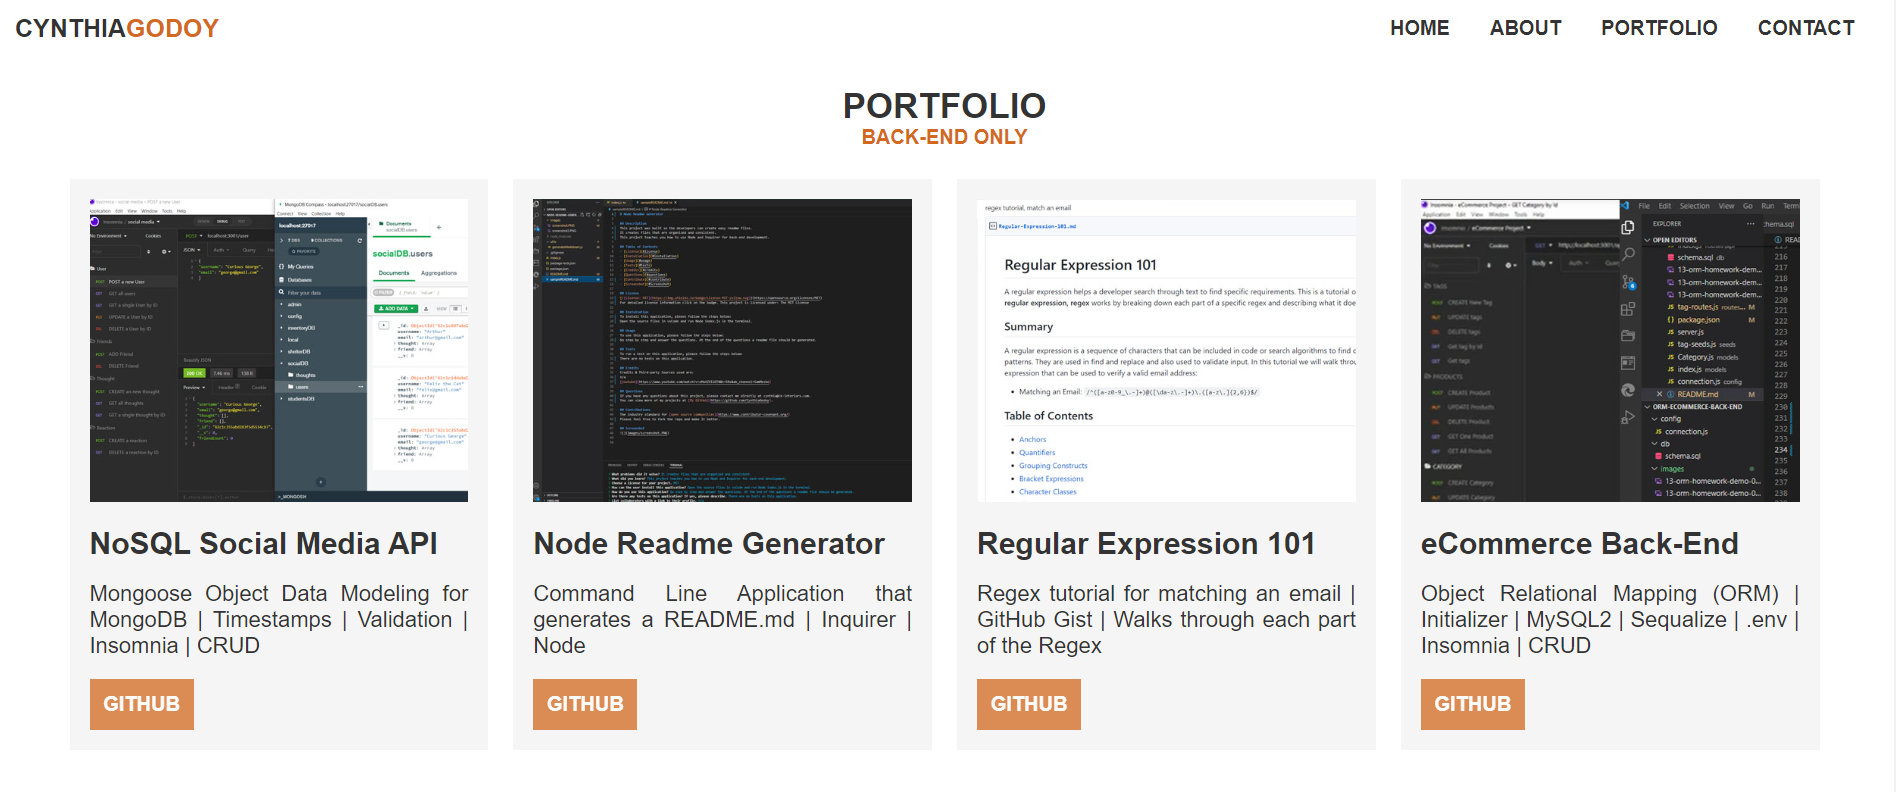
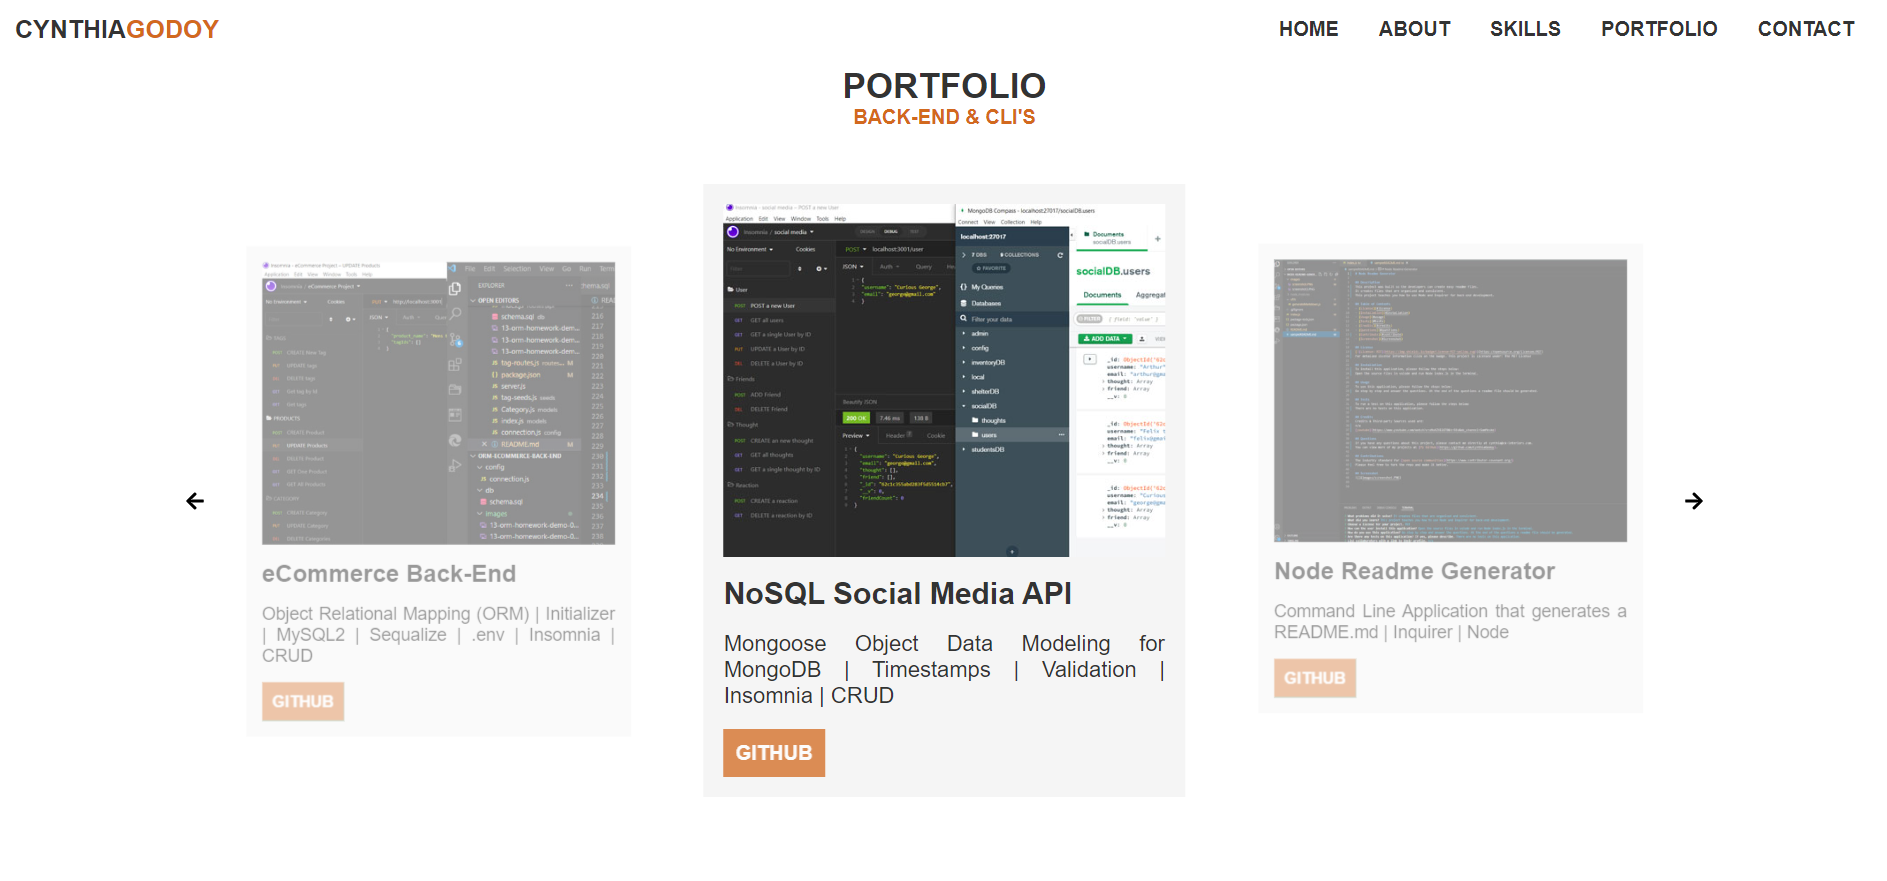
update screenshots @ readme

diff --git a/README.md b/README.md
@@ -47,9 +47,11 @@ Inside the directory, react can run several commands:
 
 ✅ The `About Me` section includes a photo of the developer. The `Resume` button contains a downloadable resume and a list of developers proficiencies.
 
-✅ The `Portfolio` section includes 6 of the developer's applications with links to both the deployed application and the GitHub Repositories.
+✅ The `Portfolio Front End` section includes a CSS grid with hover effect of Front End work.
 
-✅ The `Contact` section contains a contact form with fields for name, email address, and a message. A cursor over the field will indicate that the field is required. If invalid email is entered into the form the user will recieve notification that that the email is invalid. **Note**: Because this application doesn’t include a back end or connect to an API, the contact form doesn't save this information right now.
+✅ The `Portfolio Back End` section includes a React Carousel with Back End and CLI's.
+
+✅ The `Contact` section contains a contact form with fields for name, email address, and a message. **Note:** This is currently hooked up to EmailJS and is working correctly.
 
 ✅ The `Footer` section contains the icon links to the developer's GitHub, Linkedin, and a profile to a third platform.
 
@@ -59,3 +61,4 @@ Inside the directory, react can run several commands:
 ## Screenshot
 ![](src/assets/Screenshot.PNG)
 ![](src/assets/Screenshot2.PNG)
+![](src/assets/Screenshot3.PNG)
